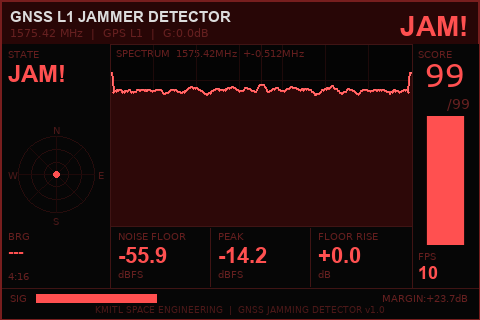
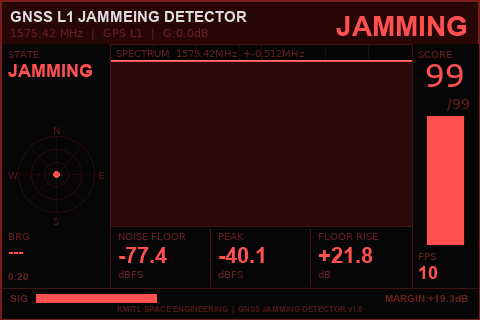
new buzzer

diff --git a/buzzer.py b/buzzer.py
@@ -1,0 +1,101 @@
+"""
+Buzzer control module for Raspberry Pi.
+
+This module provides a simple buzzer interface for startup and state
+notifications. The buzzer uses PWM on a GPIO pin and can be disabled for
+preview mode or on systems without GPIO access.
+"""
+
+import time
+
+import config
+
+
+class BuzzerController:
+    def __init__(self, buzzer_pin=None, enabled=True):
+        self.buzzer_pin = buzzer_pin or config.BUZZER_PIN
+        self.enabled = enabled
+        self.gpio = None
+        self.pwm = None
+        self.current_state = None
+
+        if self.enabled:
+            try:
+                import RPi.GPIO as GPIO
+                self.gpio = GPIO
+                self.gpio.setmode(GPIO.BCM)
+                self.gpio.setwarnings(False)
+                self.gpio.setup(self.buzzer_pin, GPIO.OUT)
+                self.gpio.output(self.buzzer_pin, GPIO.LOW)
+                print(f"[BUZZER] GPIO initialized on pin {self.buzzer_pin}")
+            except Exception as exc:
+                print(f"[BUZZER] Warning: GPIO unavailable: {exc}")
+                self.enabled = False
+
+    def _buzz(self, duration_s, frequency_hz=1200, duty_cycle=50):
+        if not self.enabled or self.gpio is None:
+            time.sleep(duration_s)
+            return
+
+        try:
+            self.pwm = self.gpio.PWM(self.buzzer_pin, frequency_hz)
+            self.pwm.start(duty_cycle)
+            time.sleep(duration_s)
+        except Exception as exc:
+            print(f"[BUZZER] Error during buzz: {exc}")
+        finally:
+            if self.pwm is not None:
+                try:
+                    self.pwm.stop()
+                except Exception:
+                    pass
+                self.pwm = None
+            try:
+                self.gpio.output(self.buzzer_pin, self.gpio.LOW)
+            except Exception:
+                pass
+
+    def _tone(self, pulses=2, pulse_duration=0.08, gap_duration=0.08, frequency_hz=1200):
+        for index in range(pulses):
+            self._buzz(pulse_duration, frequency_hz)
+            if index < pulses - 1:
+                time.sleep(gap_duration)
+
+    def play_startup(self):
+        """Play a short startup chime when the device starts."""
+        print("[BUZZER] Playing startup sound")
+        self._tone(pulses=3, pulse_duration=0.08, gap_duration=0.08, frequency_hz=1000)
+
+    def set_state(self, state):
+        """Play a notification sound for each detector state change."""
+        if state == self.current_state:
+            return
+
+        self.current_state = state
+        if state == "SCANNING":
+            print("[BUZZER] SCANNING notification")
+            self._tone(pulses=2, pulse_duration=0.08, gap_duration=0.10, frequency_hz=900)
+            time.sleep(2.0)
+        elif state == "WATCH":
+            print("[BUZZER] WATCH notification")
+            self._tone(pulses=2, pulse_duration=0.08, gap_duration=0.08, frequency_hz=1200)
+            time.sleep(1.0)
+        elif state == "JAMMING":
+            print("[BUZZER] JAMMING notification")
+            self._tone(pulses=2, pulse_duration=0.08, gap_duration=0.05, frequency_hz=1500)
+            time.sleep(0.5)
+
+    def cleanup(self):
+        """Clean up GPIO resources used by the buzzer."""
+        if self.enabled and self.gpio is not None:
+            try:
+                self.gpio.output(self.buzzer_pin, self.gpio.LOW)
+                self.gpio.cleanup()
+                print("[BUZZER] GPIO cleanup complete")
+            except Exception as exc:
+                print(f"[BUZZER] Cleanup warning: {exc}")
+
+    def test_sequence(self):
+        """Play a test sound sequence for debugging."""
+        print("[BUZZER] Running test sequence")
+        self._tone(pulses=3, pulse_duration=0.06, gap_duration=0.06, frequency_hz=1200)

diff --git a/display_ui.py b/display_ui.py
@@ -82,7 +82,7 @@ class DisplayUI:
         self._f_title     = _try(bold, 15)
         self._f_subtitle  = _try(regular, 11)
         self._f_status    = _try(bold, 28)
-        self._f_state_big = _try(bold, 24)
+        self._f_state_big = _try(bold, 18)
         self._f_score_big = _try(mono, 36)
         self._f_score_sub = _try(regular, 14)
         self._f_label     = _try(regular, 10)
@@ -90,8 +90,8 @@ class DisplayUI:
         self._f_unit      = _try(regular, 10)
         self._f_brg       = _try(bold, 16)
         self._f_compass   = _try(regular, 10)
-        self._f_small     = _try(regular, 10)
-        self._f_footer    = _try(regular, 9)
+        self._f_small     = _try(bold, 10)
+        self._f_footer    = _try(bold, 8)
         self._f_fps       = _try(bold, 18)
         self._f_fps_label = _try(regular, 10)
 
@@ -201,7 +201,7 @@ class DisplayUI:
         # Header bottom line
         draw.line((BD, content_top, W - BD, content_top), fill=line_col, width=1)
 
-        draw.text((BD + 8, BD + 6), "GNSS L1 JAMMER DETECTOR",
+        draw.text((BD + 8, BD + 6), "GNSS L1 JAMMEING DETECTOR",
                   fill=(220, 220, 220), font=self._f_title)
 
         bw = self.app.sample_rate_hz / 2e6  # ±bandwidth in MHz
@@ -210,7 +210,7 @@ class DisplayUI:
                   fill=dim_txt, font=self._f_subtitle)
 
         # Status text (right side of header)
-        short = {"SCANNING": "SCAN", "WATCH": "WTCH", "JAMMING": "JAM!"}
+        short = {"SCANNING": "SCANNING", "WATCH": "WATCH", "JAMMING": "JAMMING"}
         st_txt = short.get(state, state)
         sw, _ = self._get_text_size(st_txt, self._f_status)
         draw.text((W - BD - sw - 10, BD + 8), st_txt,

diff --git a/detector.py b/detector.py
@@ -5,6 +5,7 @@ import config
 from dsp import compute_power, remove_dc_spike, smooth_noise
 from display_ui import DisplayUI
 from led_control import LEDController
+from buzzer import BuzzerController
 
 class GPSJammerHandheld:
     def __init__(self, preview=False):
@@ -49,12 +50,15 @@ class GPSJammerHandheld:
             self._init_sdr()
             self._calibrate()
             self.led = LEDController(enabled=True)
+            self.buzzer = BuzzerController(enabled=True)
         else:
             self.noise_floor = -90.0
             self.led = LEDController(enabled=False)
+            self.buzzer = BuzzerController(enabled=False)
             print("[INFO] Preview mode: synthetic spectrum is enabled.")
 
         self.ui = DisplayUI(self, preview=self.preview)
+        self.buzzer.play_startup()
         
     def _init_sdr(self):
         print("[SYSTEM] Initializing RTL-SDR...")
@@ -128,6 +132,7 @@ class GPSJammerHandheld:
         self.noise_floor = smooth_noise(self.noise_floor, current_floor, alpha)
         self.current_state = state
         self.led.set_state(state)
+        self.buzzer.set_state(state)
         score = int(np.clip(max(floor_rise * 12.0, peak_diff * 6.0), 0, 99))
 
         return {
@@ -219,6 +224,9 @@ class GPSJammerHandheld:
 
         if self.led is not None:
             self.led.cleanup()
+
+        if getattr(self, 'buzzer', None) is not None:
+            self.buzzer.cleanup()
 
         if self.device is not None:
             try:

diff --git a/config.py b/config.py
@@ -24,3 +24,4 @@ CLEAR_FRAMES = 6
 LED_RED_PIN = 17        # GPIO17 (Physical Pin 11) for RED LED (JAMMING state)
 LED_YELLOW_PIN = 27     # GPIO27 (Physical Pin 13) for YELLOW LED (WATCH state)
 LED_GREEN_PIN = 26      # GPIO26 (Physical Pin 37) for GREEN LED (SCANNING state)
+BUZZER_PIN = 18         # GPIO18 (Physical Pin 12) for piezo buzzer
